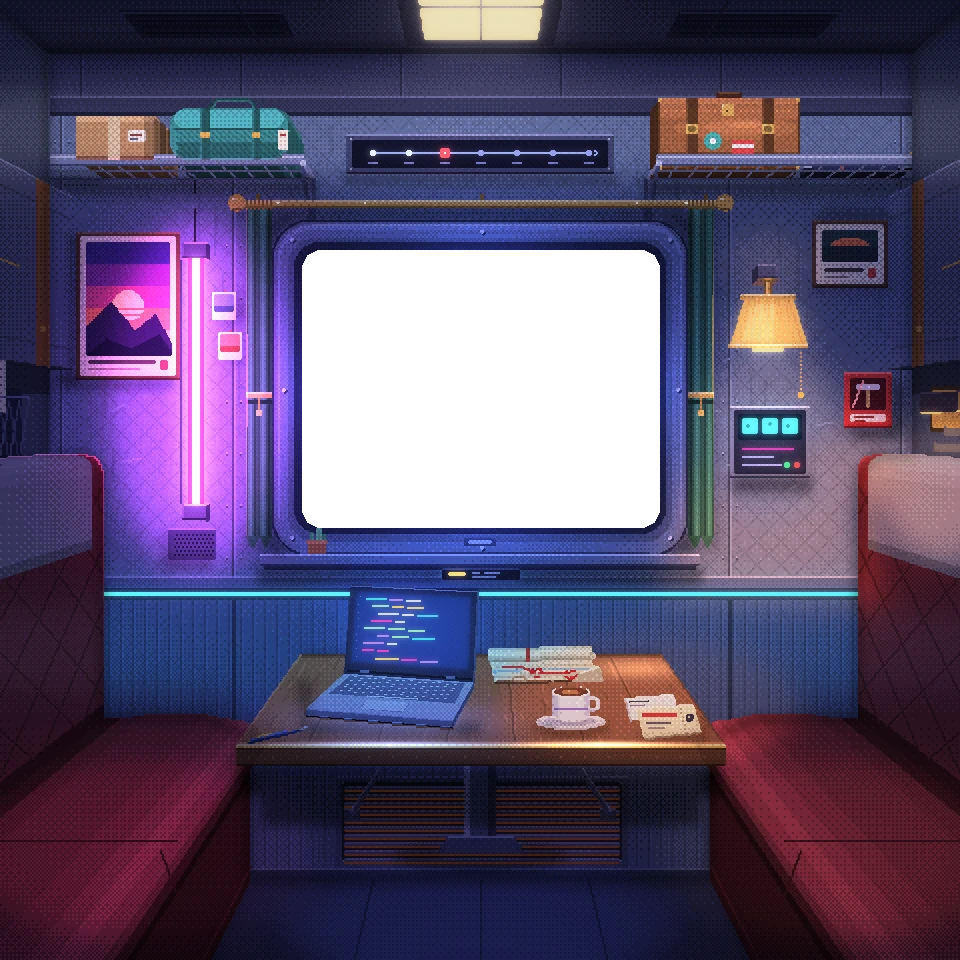
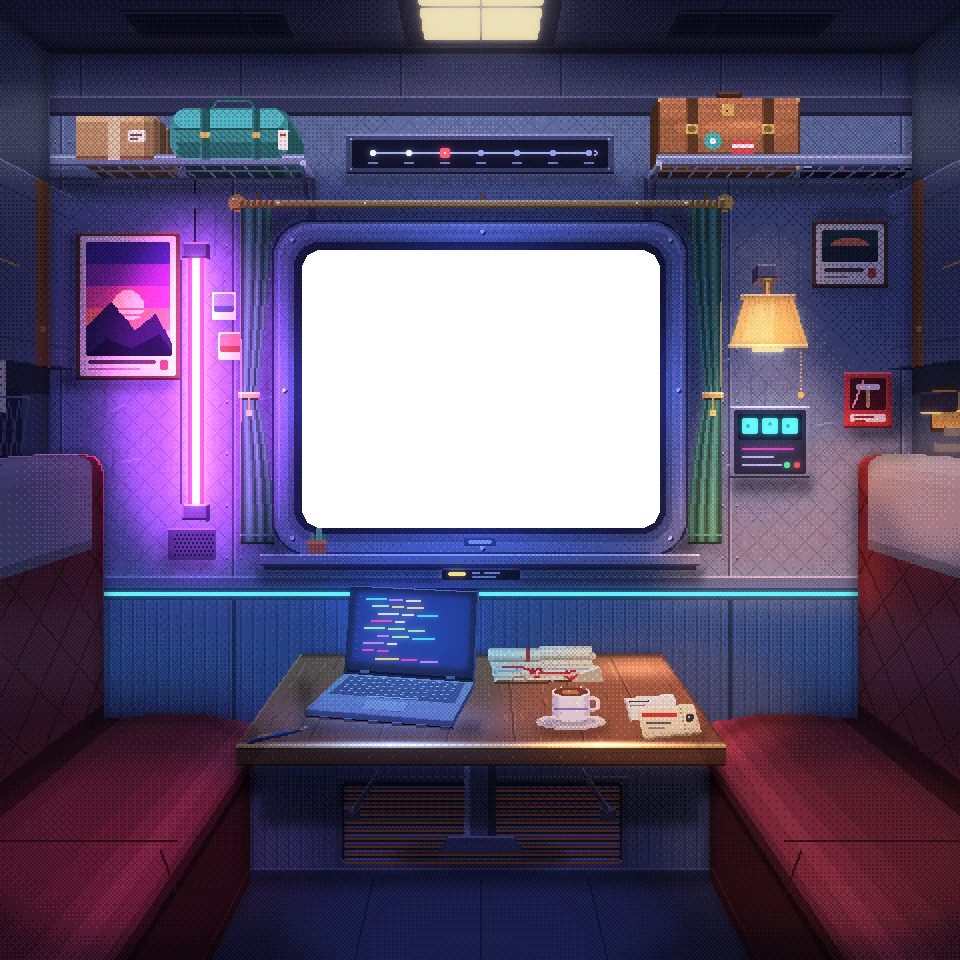
art(O-03): redraw the curtains as gathered cloth
Each curtain hangs on rings at the rod, is pinched at the tie-back and flares below it to a hem, its outer edge straight. Three folds of different widths run down the cloth, shaded smoothly across each and lit from the curtain's outer side.

Changed region(s): [[0.7188, 0.1875, 0.75, 0.5938], [0.25, 0.1875, 0.2812, 0.5938]]

diff --git a/tools/art/room.py b/tools/art/room.py
@@ -704,30 +704,66 @@ def window(g, rnd):
         g.px(x + 2, 99, (255, 240, 190))
         g.px(x + 3, 99, (255, 240, 190))
         g.rect(x + 2, 104, 5, 1, (130, 96, 50))
-    # curtains, tied back on both sides
+    # Curtains (docs/13, O-03), tied back on both sides: gathered on rings at
+    # the rod, pinched at the tie-back, flaring below it to a hem. The outer
+    # edge hangs straight; the inner edge follows the gathering. Across the
+    # cloth run three folds of different widths, each shaded from the side away
+    # from its light: reflected edge, core shadow, half-tone, highlight (L-03).
+    # The left curtain is lit from the neon on its left, the right from the lamp.
     cc = (58, 110, 96)
-    # Each curtain is two round folds. Across a fold, from the side away from
-    # its light: a reflected edge, the core shadow, the half-tone, the
-    # highlight and back (docs/13, L-03). The left curtain is lit from the
-    # neon on its left, the right one from the lamp on its right.
-    FOLDS = [0.78, 0.58, 0.86, 1.16, 1.32, 1.08, 0.74, 0.82, 0.6, 0.94, 1.24, 1.12, 0.76]
-    for x0 in (123, 344):
-        g.shadow(x0 - 1, 106, 16, 168, 0.62)
-        folds = FOLDS[::-1] if x0 < 240 else FOLDS
+    PROFILE = [0.8, 0.58, 0.86, 1.18, 1.32, 1.1, 0.8]
+    FOLD_EDGES = [0.0, 0.42, 0.7, 1.0]
+    TIE, TOP, HEM = 197, 104, 270
+
+    def width(y):
+        if y <= TIE:
+            return 16 - 7 * ((y - TOP) / (TIE - TOP)) ** 1.6
+        t = (y - TIE) / (HEM - TIE)
+        return 9 + 8 * (1 - (1 - t) ** 2)
+
+    def shade(f):
+        # smoothly across each fold, so the folds run as clean bands down the
+        # cloth instead of breaking into steps as the width changes
+        for a, b in zip(FOLD_EDGES, FOLD_EDGES[1:]):
+            if f <= b:
+                t = (f - a) / (b - a) * (len(PROFILE) - 1)
+                i = min(int(t), len(PROFILE) - 2)
+                return PROFILE[i] + (PROFILE[i + 1] - PROFILE[i]) * (t - i)
+        return PROFILE[-1]
+
+    for side, outer in ((-1, 120), (1, 360)):
         cg = g.at(0, 0, '_rim')
-        for i in range(13):
-            cg.rect(x0 + i, 104, 1, 164, mul(cc, folds[i]))
-        for x in range(x0, x0 + 13, 2):
-            g.rect(x, 100, 1, 5, (150, 112, 56))
-        # tieback
-        g.rect(x0, 196, 13, 3, BRASS)
-        g.rect(x0, 196, 13, 1, (255, 232, 160))
-        g.rect(x0, 200, 13, 2, mul(cc, 0.5))
-        for i in range(13):
-            hh = [0, 2, 4, 5, 4, 2, 0, 1, 3, 5, 4, 2, 0][i]
-            g.rect(x0 + i, 268, 1, hh + 1, mul(cc, 0.9))
-        g.rect(x0 + 6, 199, 1, 6, (190, 146, 70))
-        g.rect(x0 + 5, 205, 3, 3, (230, 190, 100))
+        g.shadow(outer - 2 if side < 0 else outer - 17, 106, 19, 168, 0.62)
+        for y in range(TOP, HEM + 1):
+            w = width(y)
+            n = max(1, round(w))
+            for i in range(n):
+                # 0 at the outer edge; both lights stand beyond the window's
+                # edges, so both curtains are lit from their outer side
+                k = shade((i + 0.5) / n)
+                x = outer + i if side < 0 else outer - i
+                k = k * (0.92 if y > HEM - 3 else 1.0)  # the hem's turned edge
+                cg.rect(x, y, 1, 1, mul(cc, k))
+        # the hem: a pale line where the cloth turns, and its shadow
+        w = round(width(HEM))
+        xa = outer if side < 0 else outer - w + 1
+        g.rect(xa, HEM - 3, w, 1, mul(cc, 1.25))
+        g.rect(xa, HEM + 1, w, 1, mul(cc, 0.45))
+        # rings on the rod
+        wt = round(width(TOP))
+        for k in range(0, wt, 3):
+            x = outer + k if side < 0 else outer - k
+            g.rect(x, 100, 2, 4, (150, 112, 56))
+            g.px(x, 100, (255, 226, 150))
+        # the tie-back, pinching the cloth, and its tassel
+        wt = round(width(TIE))
+        xa = outer if side < 0 else outer - wt + 1
+        g.rect(xa - 1, TIE - 1, wt + 2, 3, BRASS)
+        g.rect(xa - 1, TIE - 1, wt + 2, 1, (255, 232, 160))
+        g.rect(xa, TIE + 2, wt, 1, mul(cc, 0.5))
+        tx = xa + wt // 2
+        g.rect(tx, TIE + 2, 1, 6, (190, 146, 70))
+        g.rect(tx - 1, TIE + 8, 3, 3, (230, 190, 100))
     # window frame
     fr = (104, 118, 158)
     g.shadow(133, 108, 214, 174, 0.55)

diff --git a/docs/13-art-review.md b/docs/13-art-review.md
@@ -875,8 +875,8 @@ something else.
 | 4     | 4.2  | done    | the light falling on the room's albedo is cut into bands of its strength, 0.2 apart, keeping its colour, with a 4x4 ordered dither between bands on the 1x grid (`bands` in `px.render`, `BANDS` in `room.py`); bloom and emission stay smooth; the city is untouched; room.webp grows from about 80 to 145 KB                                                                                                                                                                                                                                   |
 | 4     | 4.3  | done    | the laptop is drawn whole on the fine layer (`fpoly`, `frect` on the canvas and in `room.py`), so its lid and base keep straight edges instead of the steps EPX tore them into; the seat caps' edges were already clean enough after stage 1                                                                                                                                                                                                                                                                                                     |
 | 4     | 4.4  | done    | fabric: a twill on the holdall; leather: a broad soft sheen across the briefcase's lid; metal: small hard speculars on the window rail, the lamp's rim and the table's brass edge; wood: an edge highlight where the table top turns down to the brass                                                                                                                                                                                                                                                                                           |
-| 5     | 5.1  | review  | laptop redrawn in true perspective: built in metres in the compartment model and projected with P() (the table top is 1.0 × 0.555 m at 0.629 m), turned 11° toward the left-hand seat as if just used, its lid hinged at the back and leaning 12°, clear of the map by more than its lift on focus, with thickness and a contact shadow; five rows of keys at scale, a space bar and a trackpad; the lid standing from the back edge with a bezel, a camera dot and a hinge; the screen's light on the keys and the table; all on the fine layer |
-| 5     | 5.2  | pending |                                                                                                                                                                                                                                                                                                                                                                                                                                                                                                                                                  |
+| 5     | 5.1  | done    | laptop redrawn in true perspective: built in metres in the compartment model and projected with P() (the table top is 1.0 × 0.555 m at 0.629 m), turned 11° toward the left-hand seat as if just used, its lid hinged at the back and leaning 12°, clear of the map by more than its lift on focus, with thickness and a contact shadow; five rows of keys at scale, a space bar and a trackpad; the lid standing from the back edge with a bezel, a camera dot and a hinge; the screen's light on the keys and the table; all on the fine layer |
+| 5     | 5.2  | review  | curtains redrawn as gathered cloth: hung on rings at the rod, pinched at the tie-back, flaring below it to a hem, the outer edge straight; three folds of different widths, shaded smoothly across each and lit from their outer side. The lamp (O-17) keeps its shape, by request: it already gained its wall plate, collar and rod in 3.5 and its light in 3.4                                                                                                                                                                                 |
 | 5     | 5.3  | pending |                                                                                                                                                                                                                                                                                                                                                                                                                                                                                                                                                  |
 | 5     | 5.4  | pending |                                                                                                                                                                                                                                                                                                                                                                                                                                                                                                                                                  |
 | 5     | 5.5  | pending |                                                                                                                                                                                                                                                                                                                                                                                                                                                                                                                                                  |
@@ -910,7 +910,7 @@ Done so far in stage 1, beyond what the step table names:
   behind the rack's rail this way.
 
 Stage 1 passed its gate and is merged. Stage 2 passed its gate and is merged.
-Stage 3 passed its gate and is merged. Stage 4 passed its gate and is merged: sharpness (4.1) was skipped after two attempts that stuttered or did not help (F-005 in 09), banded light (4.2), clean diagonals (4.3) and material marks (4.4) are done. Stage 5 has started: the laptop (5.1) is waiting at its gate.
+Stage 3 passed its gate and is merged. Stage 4 passed its gate and is merged: sharpness (4.1) was skipped after two attempts that stuttered or did not help (F-005 in 09), banded light (4.2), clean diagonals (4.3) and material marks (4.4) are done. Stage 5 has started: the laptop (5.1) passed its gate; the curtains (5.2) are waiting for review.
 
 ## Keep in sync
 
